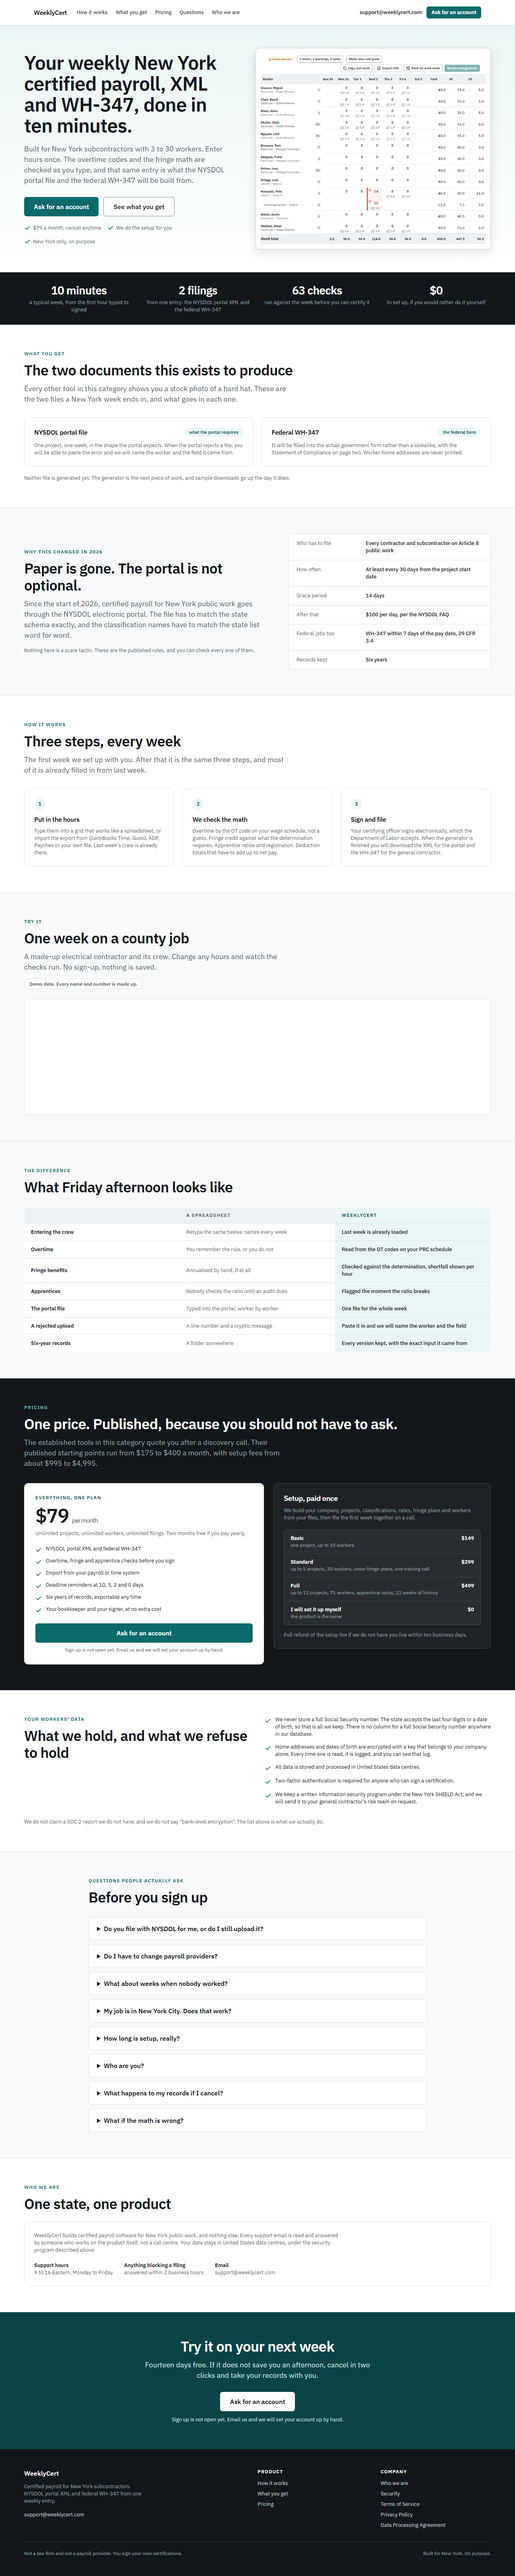
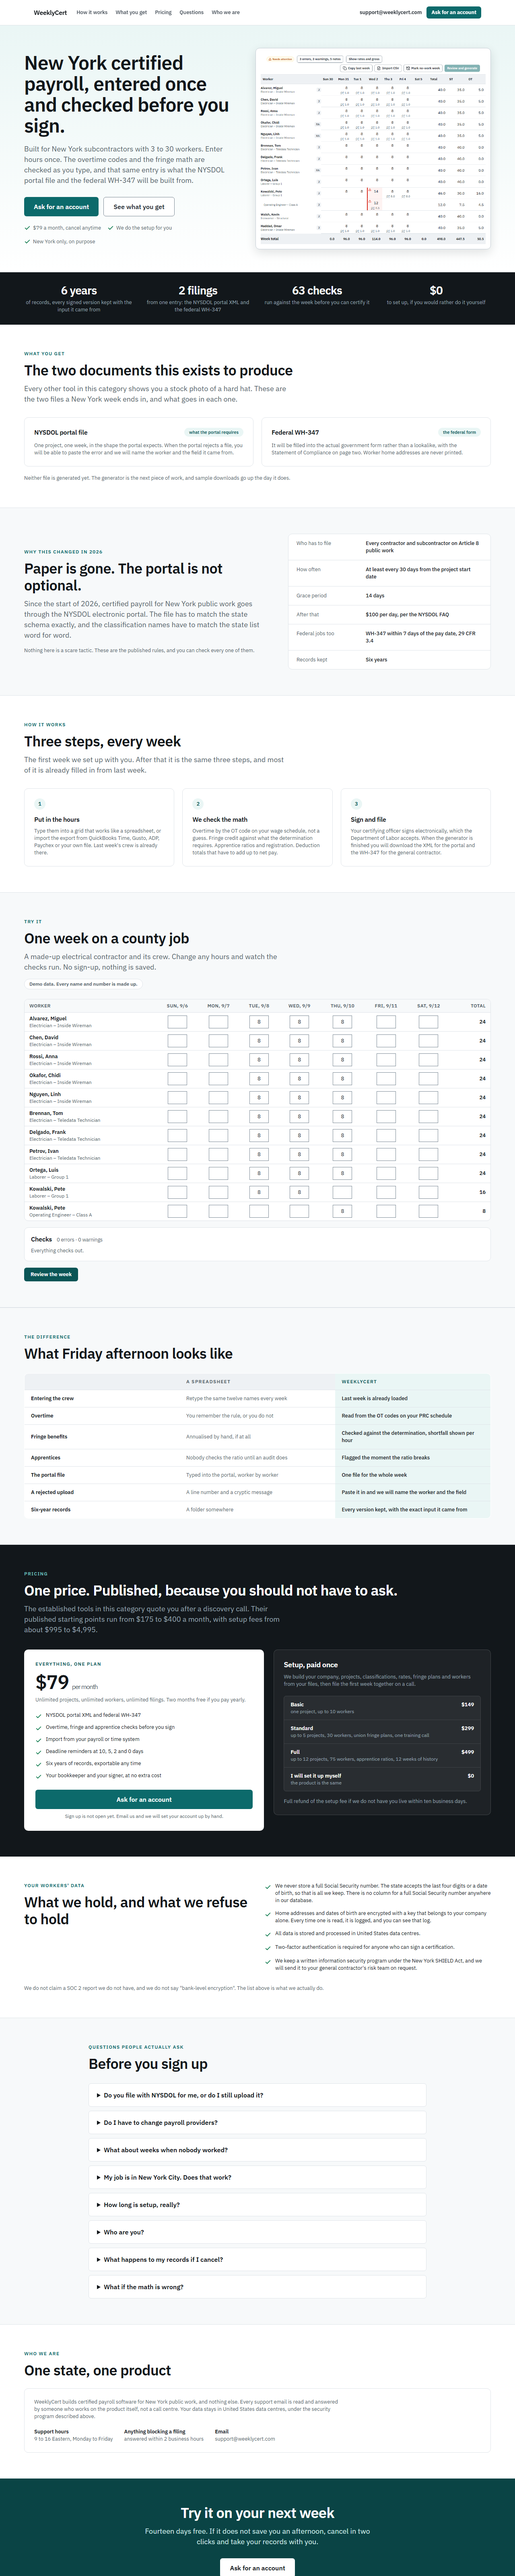
[3.15] site: no ten-minute promise until step 8c measures it

diff --git a/packages/copy/src/index.ts b/packages/copy/src/index.ts
@@ -1991,7 +1991,7 @@ export const copy = {
       lastLine: 'Built for New York. On purpose.',
     },
     hero: {
-      title: 'Your weekly New York certified payroll, XML and WH-347, done in ten minutes.',
+      title: 'New York certified payroll, entered once and checked before you sign.',
       // No claim that the two files exist: the generator is step 5 (19 §11).
       subtitle:
         'Built for New York subcontractors with 3 to 30 workers. Enter hours once. The overtime codes and the fringe math are checked as you type, and that same entry is what the NYSDOL portal file and the federal WH-347 will be built from.',
@@ -2008,7 +2008,10 @@ export const copy = {
         'The WeeklyCert hours grid: one row per worker, seven days of the week, and the overtime and the findings worked out while the hours are typed.',
     },
     numbers: [
-      { value: '10 minutes', label: 'a typical week, from the first hour typed to signed' },
+      {
+        value: '6 years',
+        label: 'of records, every signed version kept with the input it came from',
+      },
       { value: '2 filings', label: 'from one entry: the NYSDOL portal XML and the federal WH-347' },
       { value: '63 checks', label: 'run against the week before you can certify it' },
       { value: '$0', label: 'to set up, if you would rather do it yourself' },

diff --git a/apps/site/test/site.test.tsx b/apps/site/test/site.test.tsx
@@ -103,6 +103,11 @@ describe('spec/19 §8: what has to be out before it is published', () => {
     for (const line of mentions) expect(line).toMatch(/We do not claim .* we do not say/)
   })
 
+  it('promises no ten-minute week, which nobody has measured (15 §2)', () => {
+    // 10 minutes is the target of 03; it comes back after step 8c measures it.
+    expect(offenders(/\b(ten|10)[\s-]+minutes?\b/i)).toEqual([])
+  })
+
   it('uses no em or en dash in anything a visitor reads (15 §1 rule 7)', () => {
     expect(siteText.filter((s) => /[–—]/.test(s))).toEqual([])
   })

diff --git a/spec/15-TEKSTOVI-I-EMAILOVI.md b/spec/15-TEKSTOVI-I-EMAILOVI.md
@@ -1069,7 +1069,7 @@ dokument s izmišljenim radnicima.
 - Podnožje, zadnja linija: `Built for New York. On purpose.`
 
 **1 Hero**
-- Naslov: `Your weekly New York certified payroll, XML and WH-347, done in ten minutes.`
+- Naslov: `New York certified payroll, entered once and checked before you sign.`
 - Podnaslov (ne tvrdi da izlazi već postoje; generator je korak 5):
   `Built for New York subcontractors with 3 to 30 workers. Enter hours once. The overtime codes and the fringe math are checked as you type, and that same entry is what the NYSDOL portal file and the federal WH-347 will be built from.`
 - Dugmad: `Start free for 14 days` · `See what you get`
@@ -1079,10 +1079,12 @@ dokument s izmišljenim radnicima.
   kraja sedmice bira firma, pravilo 12): `The WeeklyCert hours grid: one row per worker, seven days of the week, and the overtime and the findings worked out while the hours are typed.`
 
 **2 Traka brojeva** (16 §4 red 3, četiri tvrda broja)
-- `10 minutes` / `a typical week, from the first hour typed to signed`
+- `6 years` / `of records, every signed version kept with the input it came from`
 - `2 filings` / `from one entry: the NYSDOL portal XML and the federal WH-347`
 - `63 checks` / `run against the week before you can certify it`
 - `$0` / `to set up, if you would rather do it yourself`
+
+10 minuta je cilj iz 03, ne izmjerena brojka. Vraća se na sajt tek kad ga izmjerimo u koraku 8c (ljudski test).
 
 **3 Šta dobijete** (16 §4 red 4)
 - Naslov: `The two documents this exists to produce`
